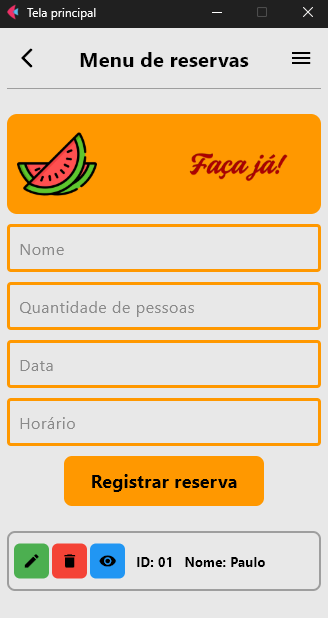
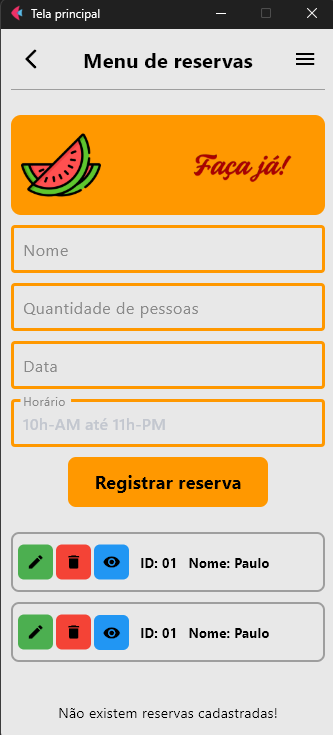
save

diff --git a/CRUD/Front-end.py b/CRUD/Front-end.py
@@ -110,11 +110,16 @@ def principal(page: ft.Page):
 
 
     # Botão ----------------------------------------------------------------
-    def hover(e):
+    def hover_botão(e):
         e.control.width = 199 if e.data == "true" else 200
         e.control.height = 49 if e.data == "true" else 50
         e.control.opacity = 0.9 if e.data == "true" else 1  
         e.control.update()  
+        
+
+    def hover(e):
+        e.control.opacity = 0.7 if e.data == "true" else 1  
+        e.control.update()
 
     salvar = ft.Row(
         [
@@ -126,7 +131,7 @@ def principal(page: ft.Page):
                 border_radius=8,
                 alignment=ft.alignment.center,  
                 on_click=capturar_dados,  # Agora chamando a função capturar_dados
-                on_hover=hover,  
+                on_hover=hover_botão,  
             )
         ],
         alignment="center"  # Centraliza o Row na página
@@ -163,6 +168,7 @@ def principal(page: ft.Page):
                         content=Interatíveis(icon=ft.icons.EDIT),
                         alignment=ft.alignment.center,
                         border_radius=6,
+                        on_hover=hover,
                     ),
                     # Segundo Container interno
                     ft.Container(
@@ -182,7 +188,10 @@ def principal(page: ft.Page):
                         content=Interatíveis(icon=ft.icons.VISIBILITY),
                         alignment=ft.alignment.center,
                         border_radius=6,
+                        on_hover=hover,
                     ),
+
+                    #Espaçamento entre o botão e o texto
                     ft.Container(width=5),  
 
                     ft.Text(
@@ -204,8 +213,24 @@ def principal(page: ft.Page):
         )
     )
     
+    # Mensagem ----------------------------------------------------------------
+    mensagem = ft.Container(
+        content=ft.Text(
+            "Não existem reservas cadastradas!",
+            color=ft.colors.BLACK,
+            size=14,
+        ),
+        alignment=ft.Alignment(0, 0) ,
+        padding=ft.Padding(top=30, left=0, right=0, bottom=0),
+      
+    )
+    
+         
+
+
+
     page.add(
-        cabeçalho, linha, espaço, stack, Menu1, salvar, espaço, dados
+        cabeçalho, linha, espaço, stack, Menu1, salvar, espaço, dados, dados, mensagem
     )
 
 ft.app(target=principal)
